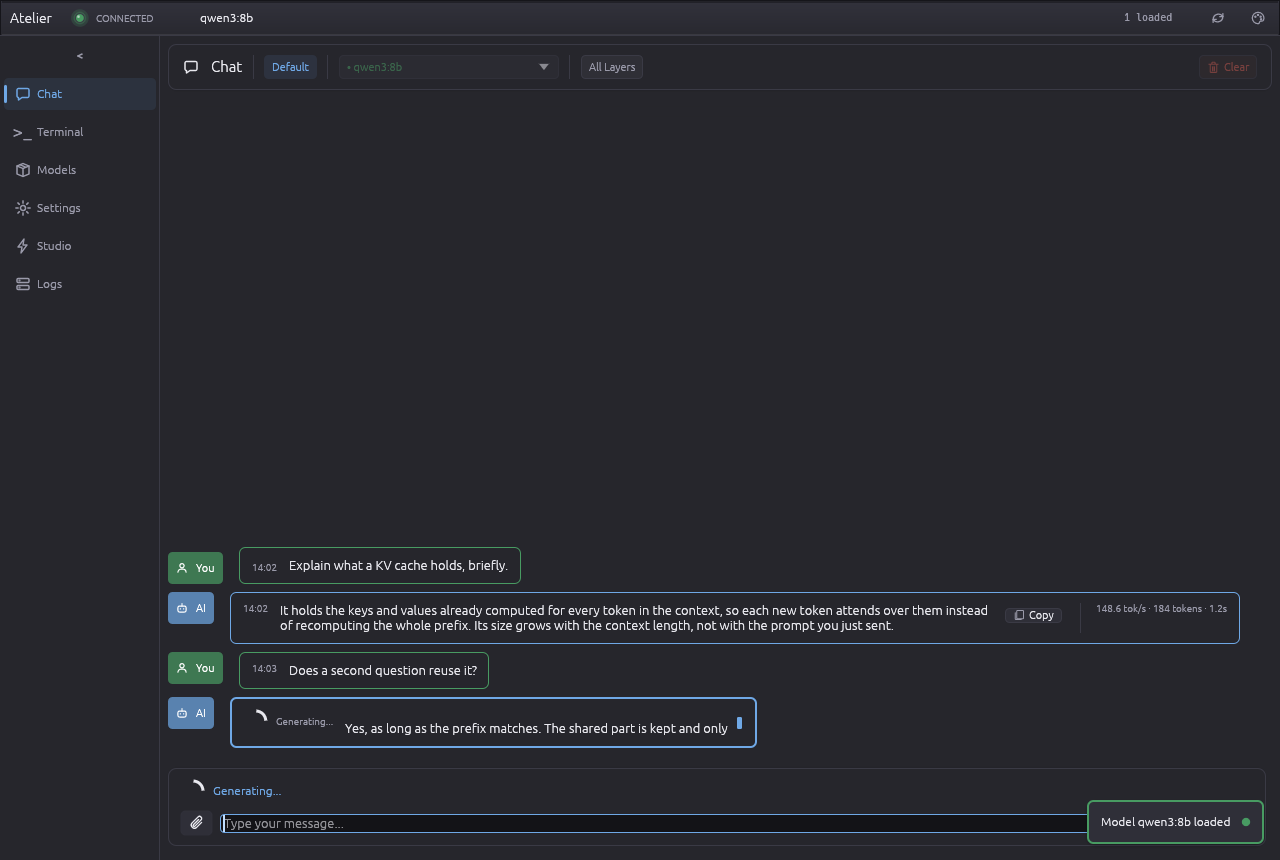
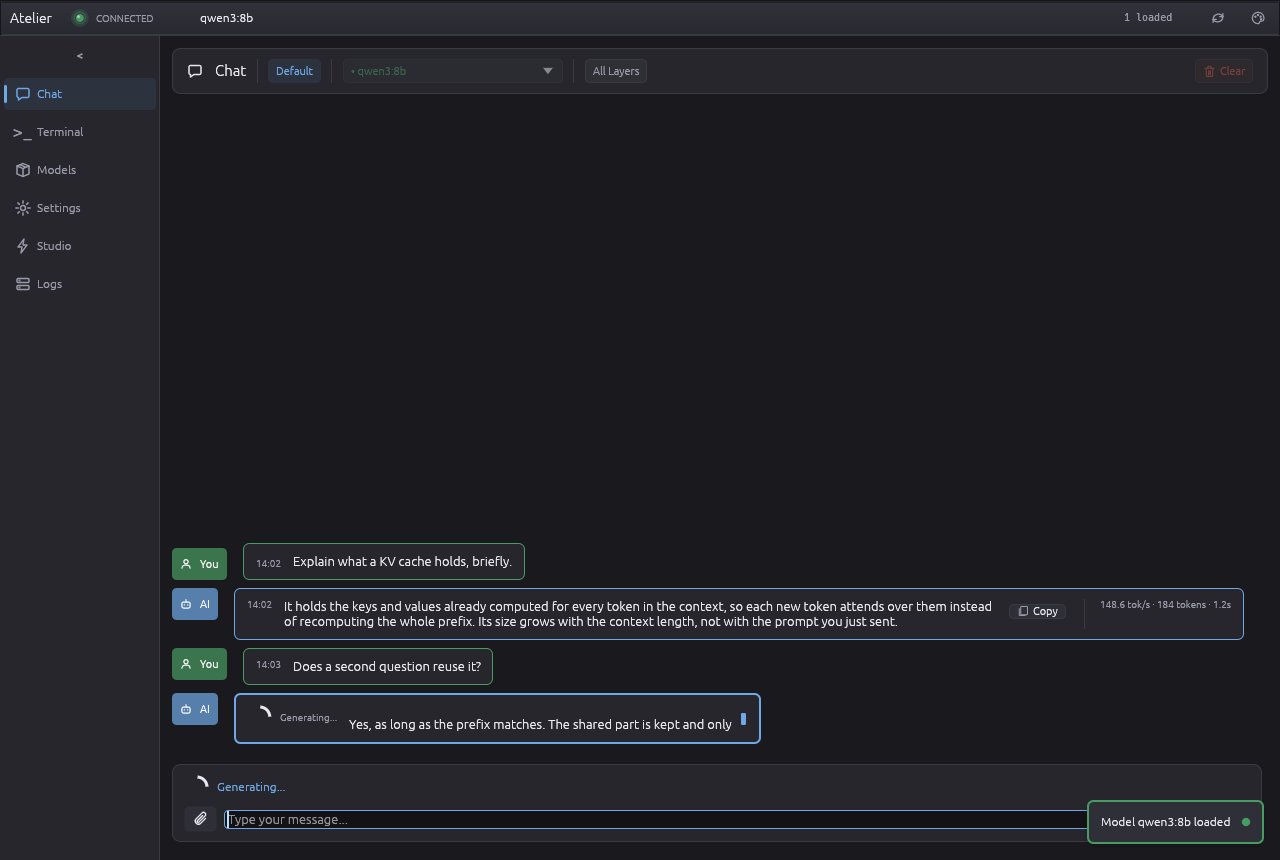
The content sits on the floor
The central panel is the floor, one step darker than the panels, with a
named margin around it. A card stands up because its fill is lighter
than what it sits on, and a text field is a hole in whatever holds it.

diff --git a/src/app.rs b/src/app.rs
@@ -2985,6 +2985,9 @@ Keyboard:
     }
 }
 
+/// Margin between the floor's edge and the panels standing on it.
+const FLOOR_MARGIN: i8 = 12;
+
 impl eframe::App for LLMGuiApp {
     /// Flush the in-memory config to disk before the GUI exits.
     /// The 1 s rate-limit on the per-frame window-size save (commit
@@ -3193,7 +3196,9 @@ impl eframe::App for LLMGuiApp {
         }
 
         // ── MAIN CONTENT AREA ──
-        egui::CentralPanel::default().show(ui, |ui| {
+        egui::CentralPanel::default()
+            .frame(egui::Frame::NONE.fill(theme::bg()).inner_margin(FLOOR_MARGIN))
+            .show(ui, |ui| {
             ui.set_width(ui.available_width());
 
             match self.current_section {

diff --git a/src/theme.rs b/src/theme.rs
@@ -125,8 +125,6 @@ pub fn palette() -> &'static Palette {
     if is_dark() { &DARK } else { &LIGHT }
 }
 
-// The floor under the content (src/app.rs).
-#[allow(dead_code)]
 pub fn bg() -> Color32 { palette().bg }
 pub fn panel() -> Color32 { palette().panel }
 pub fn raised() -> Color32 { palette().raised }
